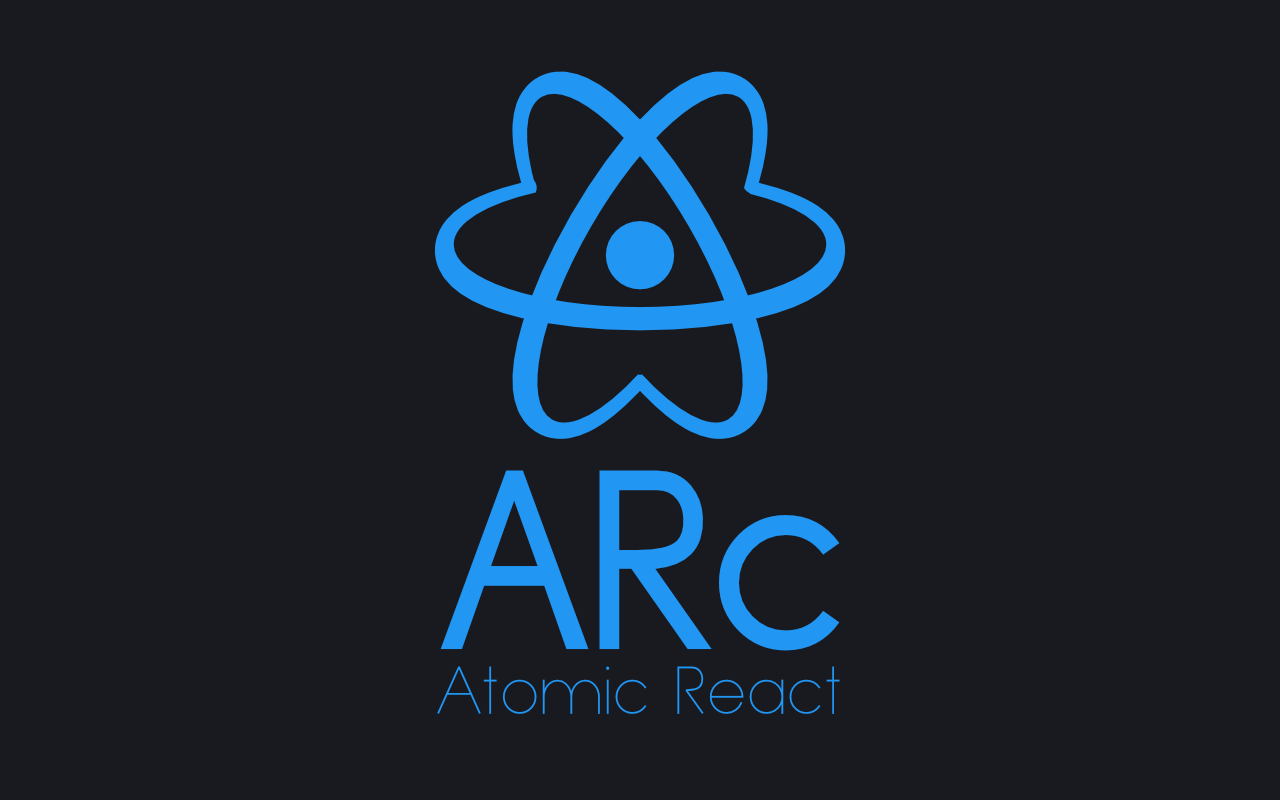
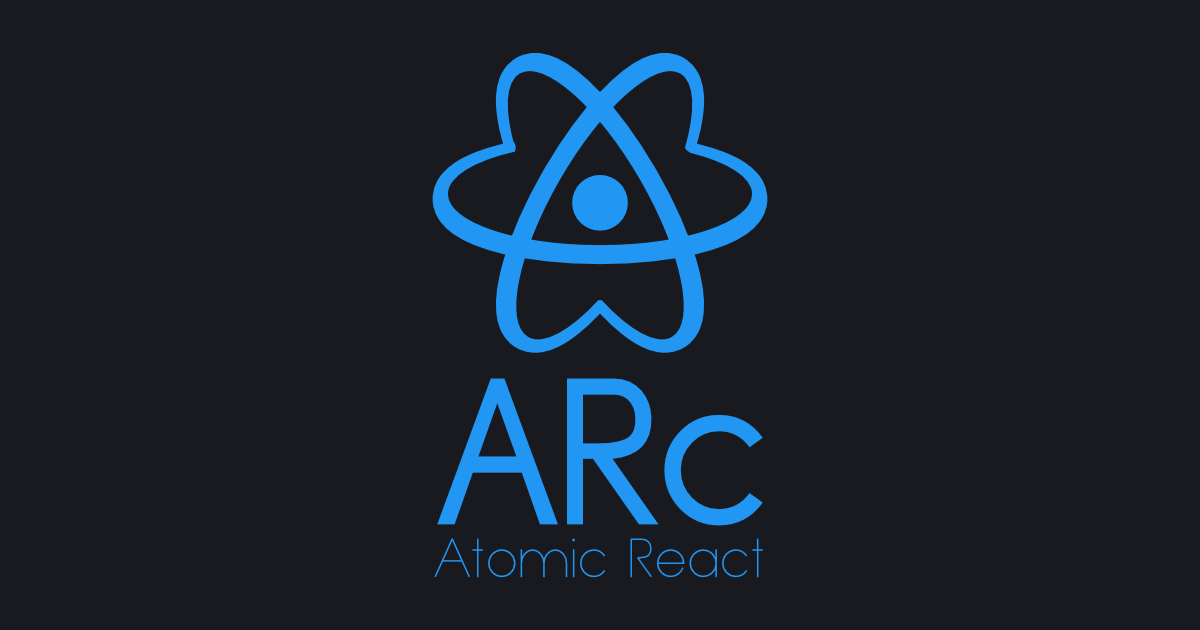
Upate thumbnail.png dimensions

Changed region(s): [[0.3392, 0.0603, 0.6783, 0.9349]]

diff --git a/dist/index.html b/dist/index.html
@@ -6,8 +6,8 @@
   <meta property="og:site_name" content="ARc">
   <meta property="og:image" content="https://diegohaz.github.io/arc/thumbnail.png">
   <meta property="og:image:type" content="image/png">
-  <meta property="og:image:width" content="1280">
-  <meta property="og:image:height" content="800">
+  <meta property="og:image:width" content="1200">
+  <meta property="og:image:height" content="630">
   <meta name="viewport" content="width=device-width, initial-scale=1.0">
   <link rel="icon" href="icon.png" />
 </head>

diff --git a/public/index.html b/public/index.html
@@ -6,8 +6,8 @@
   <meta property="og:site_name" content="ARc">
   <meta property="og:image" content="https://diegohaz.github.io/arc/thumbnail.png">
   <meta property="og:image:type" content="image/png">
-  <meta property="og:image:width" content="1280">
-  <meta property="og:image:height" content="800">
+  <meta property="og:image:width" content="1200">
+  <meta property="og:image:height" content="630">
   <meta name="viewport" content="width=device-width, initial-scale=1.0">
   <link rel="icon" href="icon.png" />
 </head>
